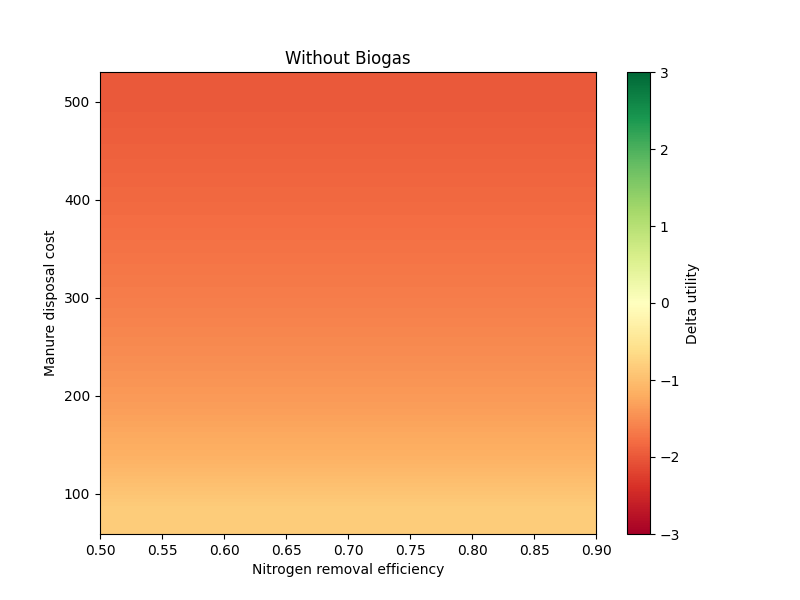
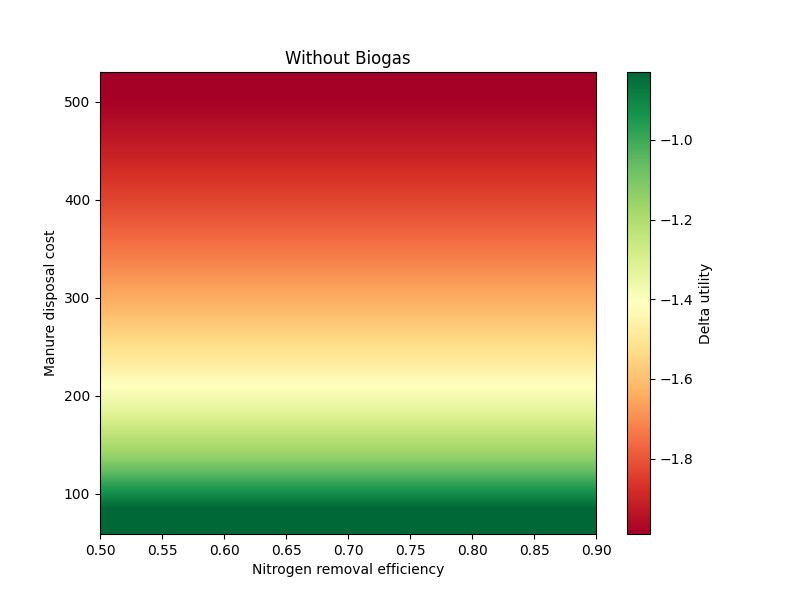
ss

diff --git a/Biogas/Biogas.py b/Biogas/Biogas.py
@@ -22,7 +22,8 @@ Sanction_val = [516.46, 2582.28, 3873.43 , 5164.57] # min, 50%, 75%, max
 
 Risk_aversion = 0.193 # Italian farmer risk aversion by elicitation using lotteries, source: https://doi.org/10.1002/aepp.13330 , 0.164 , 0.223
 Risk_aversion_val = np.arange(0.164, 0.223, 0.01) # min, max
-
+R_europe = 0.214 # Risk aversion for Europe
+R_europe_val = np.arange(0.206, 0.223, 0.01) # min, max
 
 #%% The model
 def u_compliance(l_c, risk): # l_c: land cost, risk: risk aversion
@@ -104,6 +105,26 @@ def heatmap2d(arr: np.ndarray, xlabel, ylabel, x_param, y_param, b = False):
     else:
         plt.savefig(('./Grafici/'+xlabel+'_'+ylabel+'.png'))
     plt.show()
+def heatmap2d2(arr: np.ndarray, xlabel, ylabel, x_param, y_param, b = False):
+
+    plt.figure(figsize=(8,6))
+    norm = colors.TwoSlopeNorm(vmin= -3, vcenter=0 , vmax=+3)
+    img = plt.imshow(arr,aspect='auto', origin='lower', 
+                 extent=[ y_param[0], y_param[-1],x_param[0], x_param[-1]], 
+                  interpolation= 'Bilinear', cmap='RdYlGn')
+    # Add colorbar
+    plt.colorbar(img, label='Delta utility')
+    if b:
+        plt.title('With Biogas')
+    else:
+        plt.title('Without Biogas')
+    plt.xlabel(xlabel)
+    plt.ylabel(ylabel)
+    if b:
+        plt.savefig(('./Grafici/'+xlabel+'_'+ylabel+'_biogas.png'))
+    else:
+        plt.savefig(('./Grafici/'+xlabel+'_'+ylabel+'.png'))
+    plt.show()
 def deltab_heat(arr: np.ndarray, xlabel, ylabel, x_param, y_param):
     plt.figure(figsize=(8,6))
     img = plt.imshow(arr,aspect='auto', origin='lower', 
@@ -116,6 +137,8 @@ def deltab_heat(arr: np.ndarray, xlabel, ylabel, x_param, y_param):
     plt.ylabel(ylabel)
     plt.savefig(('./Grafici/'+xlabel+'_'+ylabel+'_diff.png'))
     plt.show()
+
+
 # %%
 from mpl_toolkits.mplot3d import Axes3D
 from matplotlib import pyplot as plt
@@ -235,7 +258,7 @@ for i in range(len(Land_cost_to_rights_val)):
         results[i,j]= delta_compliance(L_r, Risk_aversion, p_sanction, Land_cost_0, Sanction)
         resultsb[i,j]= delta_compliance_b(L_r, Risk_aversion, p_sanction, Land_cost_0, Sanction, N_strip_eff_val[j])
 # Plot the heatmap
-heatmap2d(results, 'Nitrogen removal efficiency', 'Manure disposal cost', (Land_cost * Land_cost_to_rights_val), N_strip_eff_val)
-heatmap2d(resultsb, 'Nitrogen removal efficiency', 'Manure disposal cost', (Land_cost * Land_cost_to_rights_val), N_strip_eff_val,1)
+heatmap2d2(results, 'Nitrogen removal efficiency', 'Manure disposal cost', (Land_cost * Land_cost_to_rights_val), N_strip_eff_val)
+heatmap2d2(resultsb, 'Nitrogen removal efficiency', 'Manure disposal cost', (Land_cost * Land_cost_to_rights_val), N_strip_eff_val,1)
 deltab_heat(resultsb-results, 'Nitrogen removal efficiency', 'Manure disposal cost', (Land_cost * Land_cost_to_rights_val), N_strip_eff_val)
 # %%
